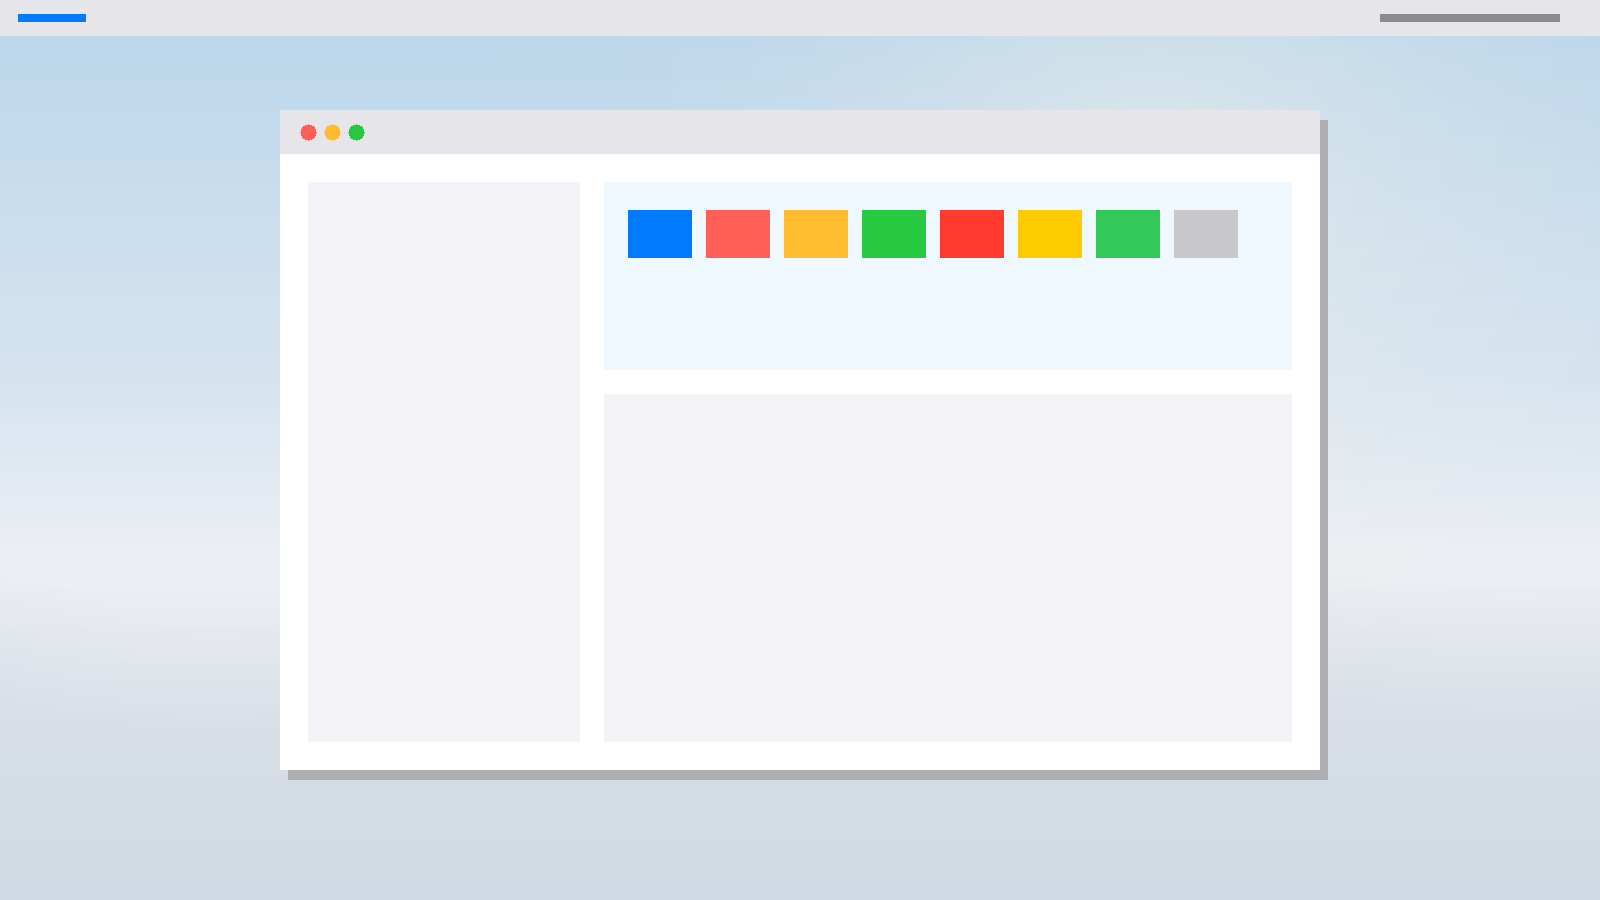
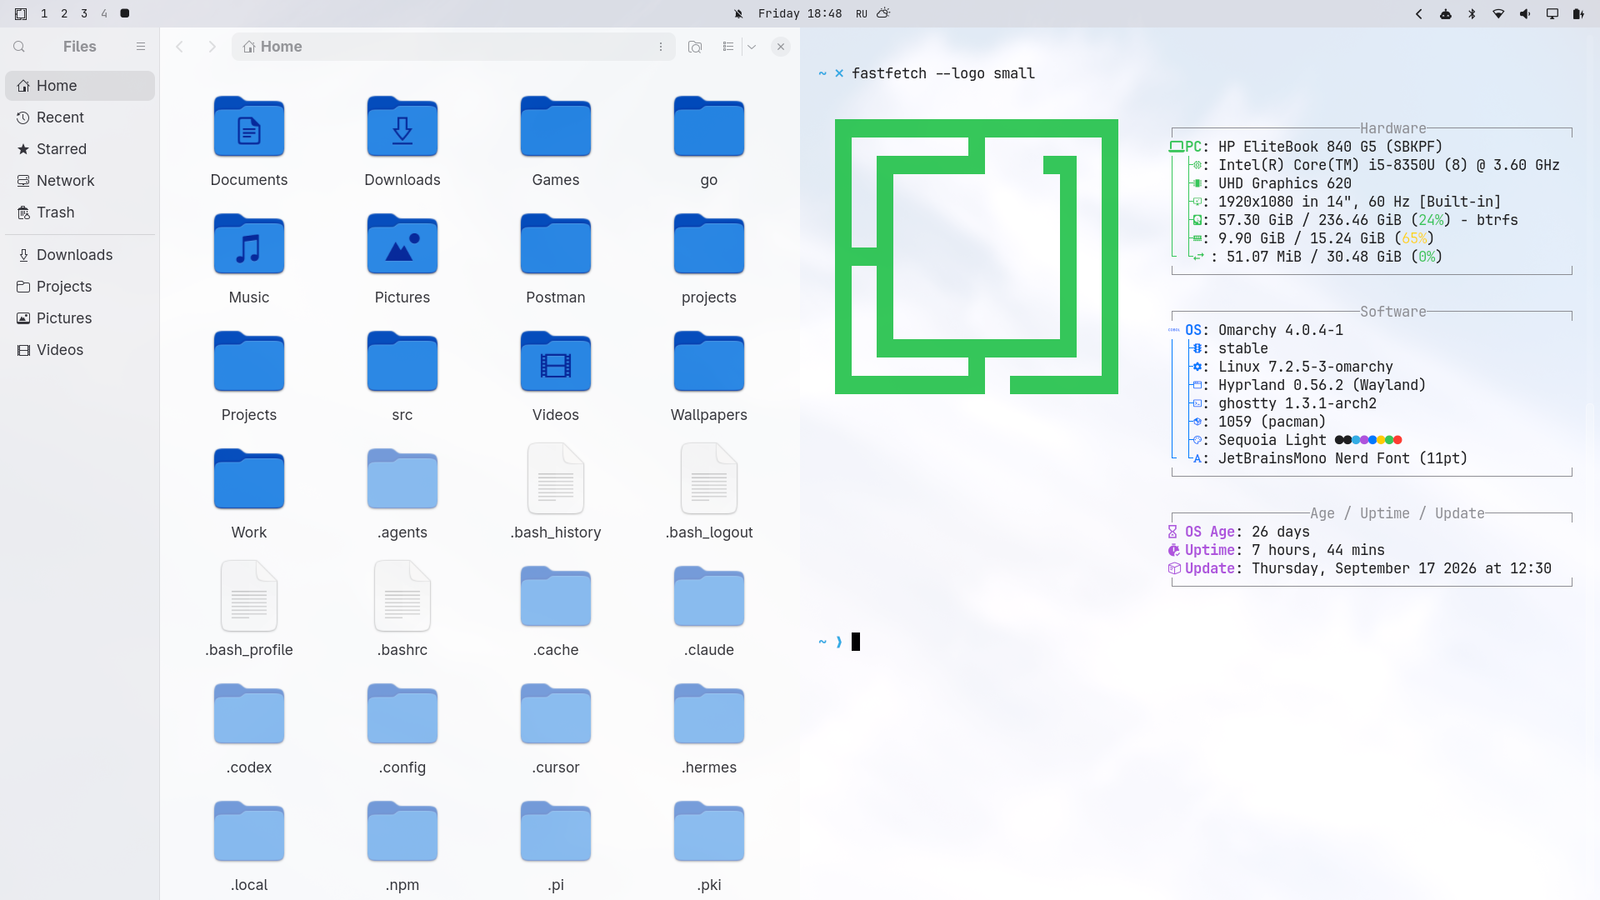
Replace stub previews with real Omarchy desktop and lock captures.
Add wallpaper thumbnails for the README table; full JPEGs stay in
backgrounds/.

diff --git a/README.md b/README.md
@@ -3,18 +3,20 @@
 A light macOS Sequoia theme for [Omarchy](https://omarchy.org): off-white
 windows, system-gray chrome, and Apple System Blue `#007AFF`.
 
-![Sequoia Light preview](preview.png)
+![Sequoia Light on Omarchy](preview.png)
+
+Lock screen: [preview-unlock.png](preview-unlock.png).
 
 ## Wallpapers
 
-Five Unsplash skies and California hills. Click any one for the full
-2560×1440 wallpaper.
+Five Unsplash skies and California hills. Thumbnails below; click for the
+full 2560×1440 JPEG in `backgrounds/`.
 
 | | |
 | --- | --- |
-| [Pale sky](backgrounds/01-pale-sky.jpg) | [Soft clouds](backgrounds/02-soft-clouds.jpg) |
-| [Cirrus](backgrounds/03-cirrus.jpg) | [California fog](backgrounds/04-california-fog.jpg) |
-| [Morro hills](backgrounds/05-morro-hills.jpg) | |
+| [![Pale sky](thumbnails/01-pale-sky.jpg)](backgrounds/01-pale-sky.jpg) | [![Soft clouds](thumbnails/02-soft-clouds.jpg)](backgrounds/02-soft-clouds.jpg) |
+| [![Cirrus](thumbnails/03-cirrus.jpg)](backgrounds/03-cirrus.jpg) | [![California fog](thumbnails/04-california-fog.jpg)](backgrounds/04-california-fog.jpg) |
+| [![Morro hills](thumbnails/05-morro-hills.jpg)](backgrounds/05-morro-hills.jpg) | |
 
 Photo credits are in [CREDITS.md](CREDITS.md). Cycle with `omarchy theme bg next`.
 
